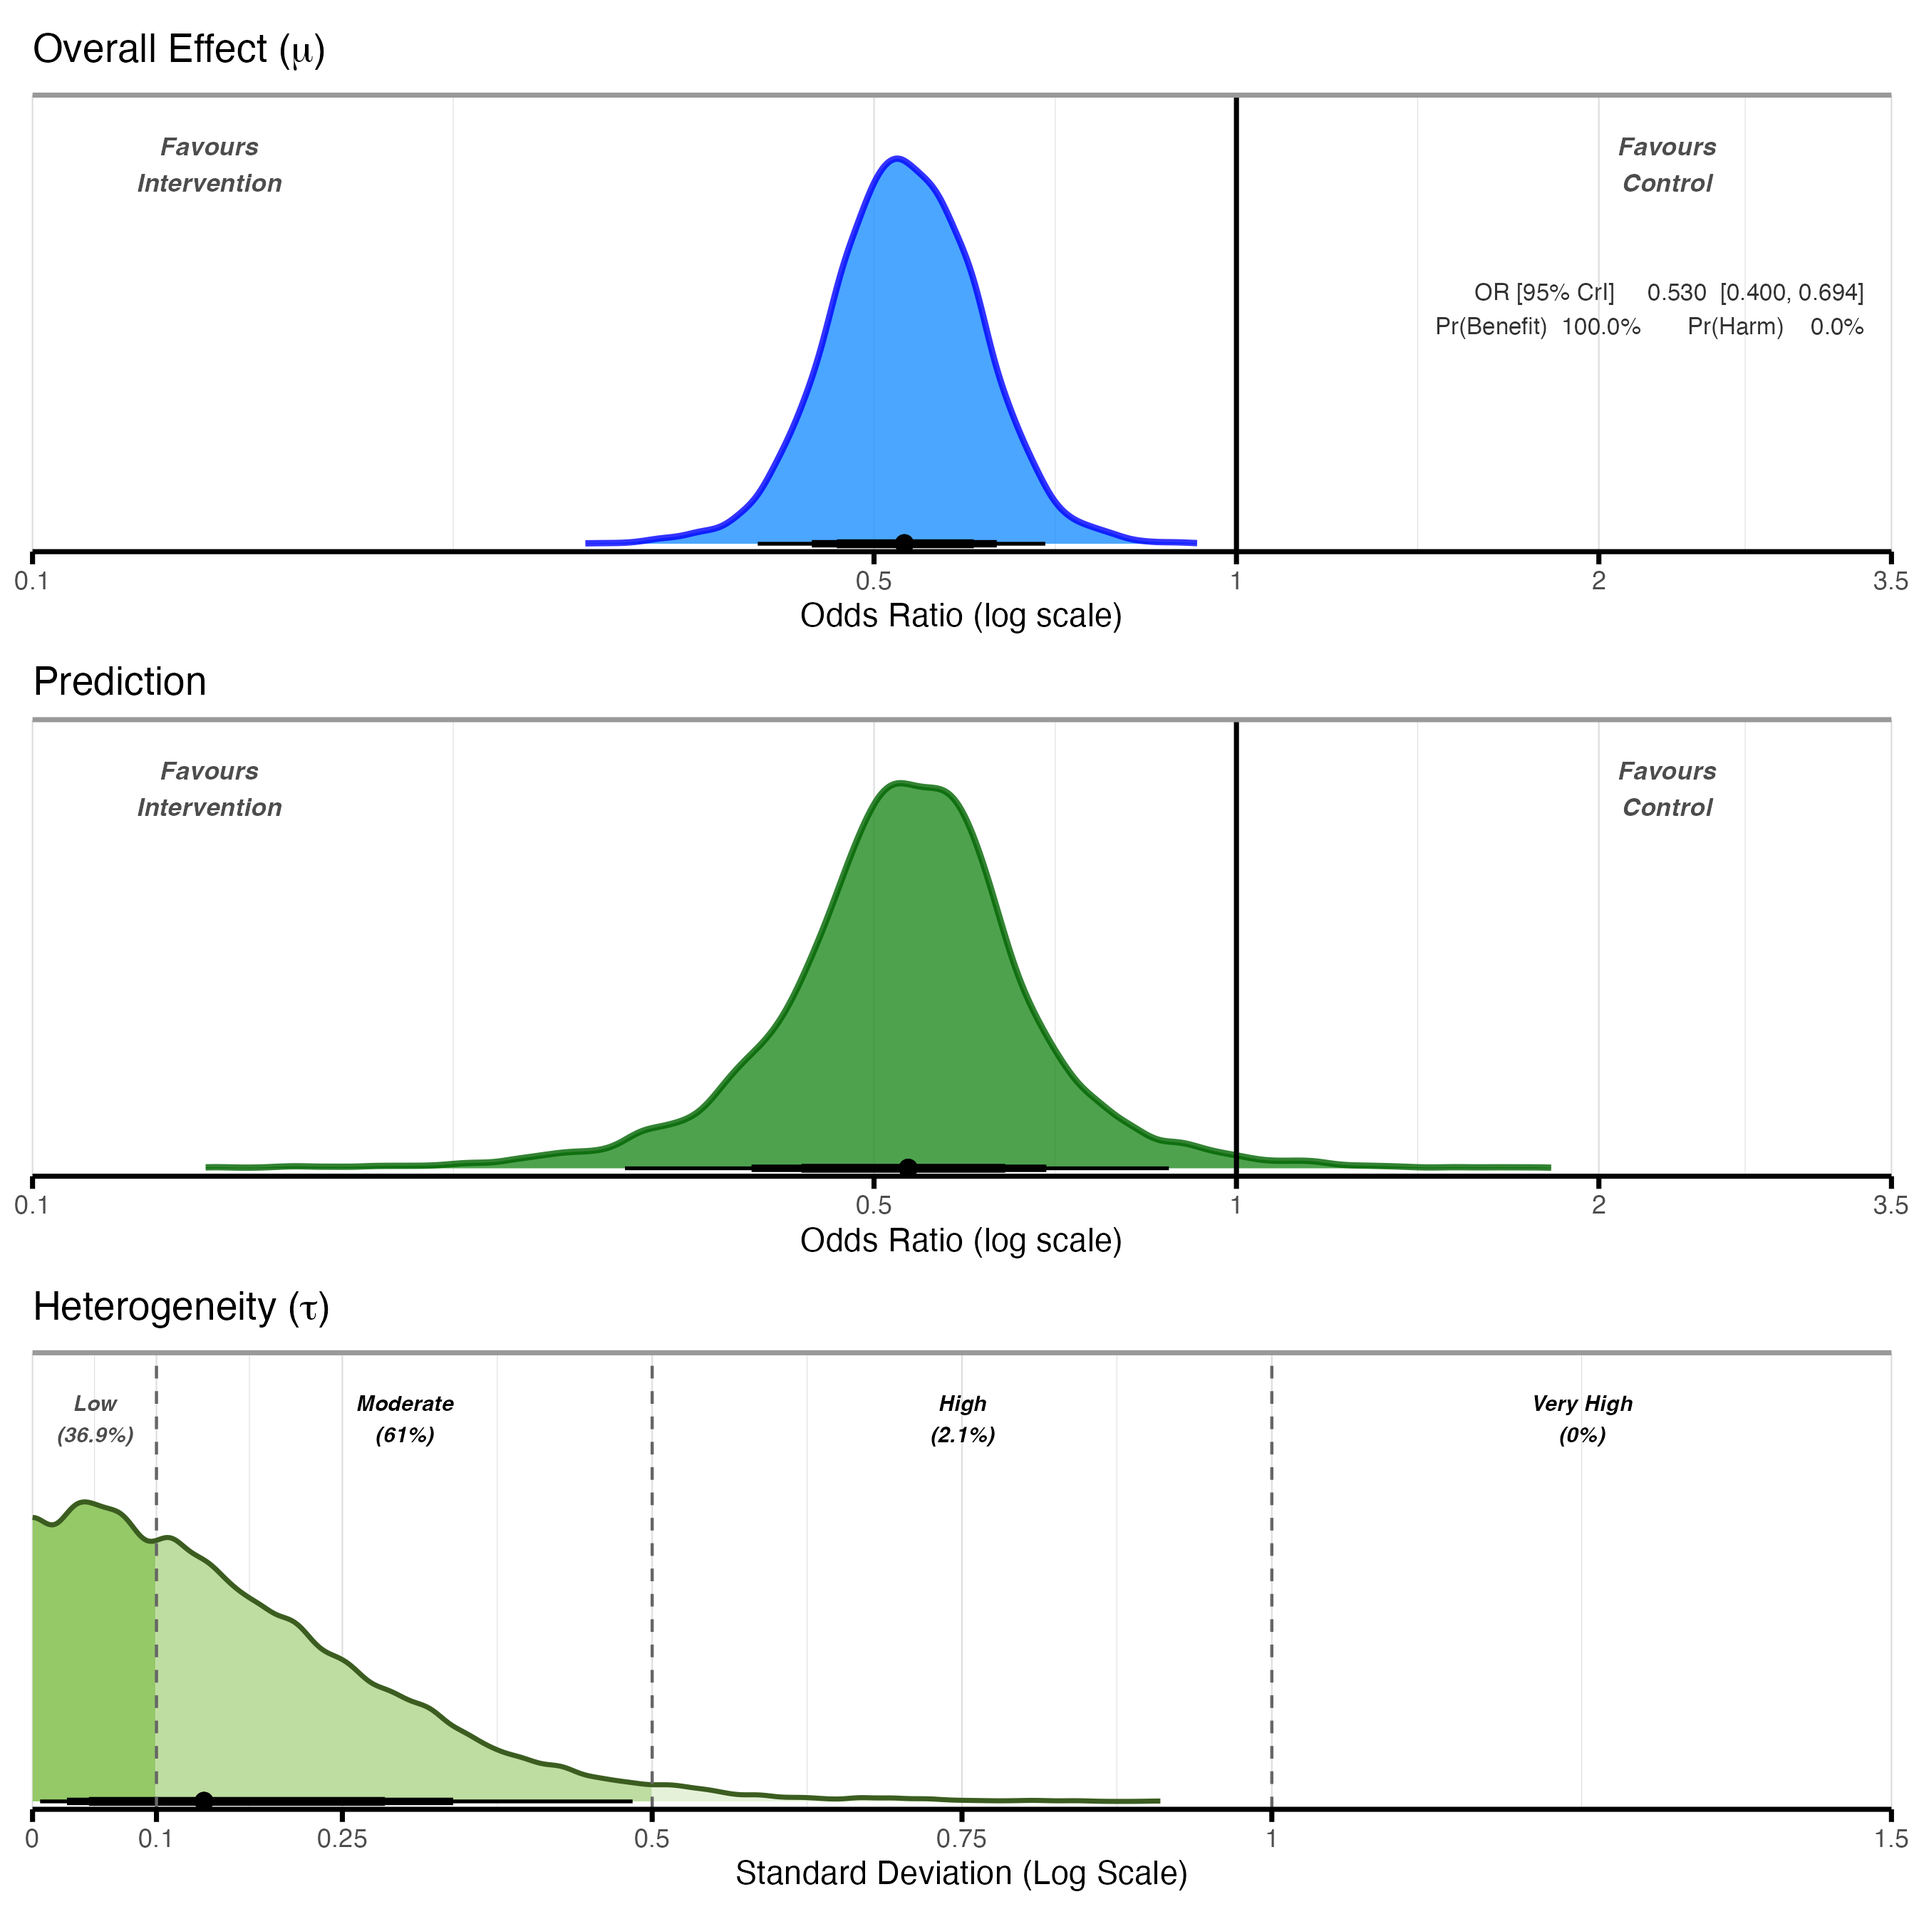
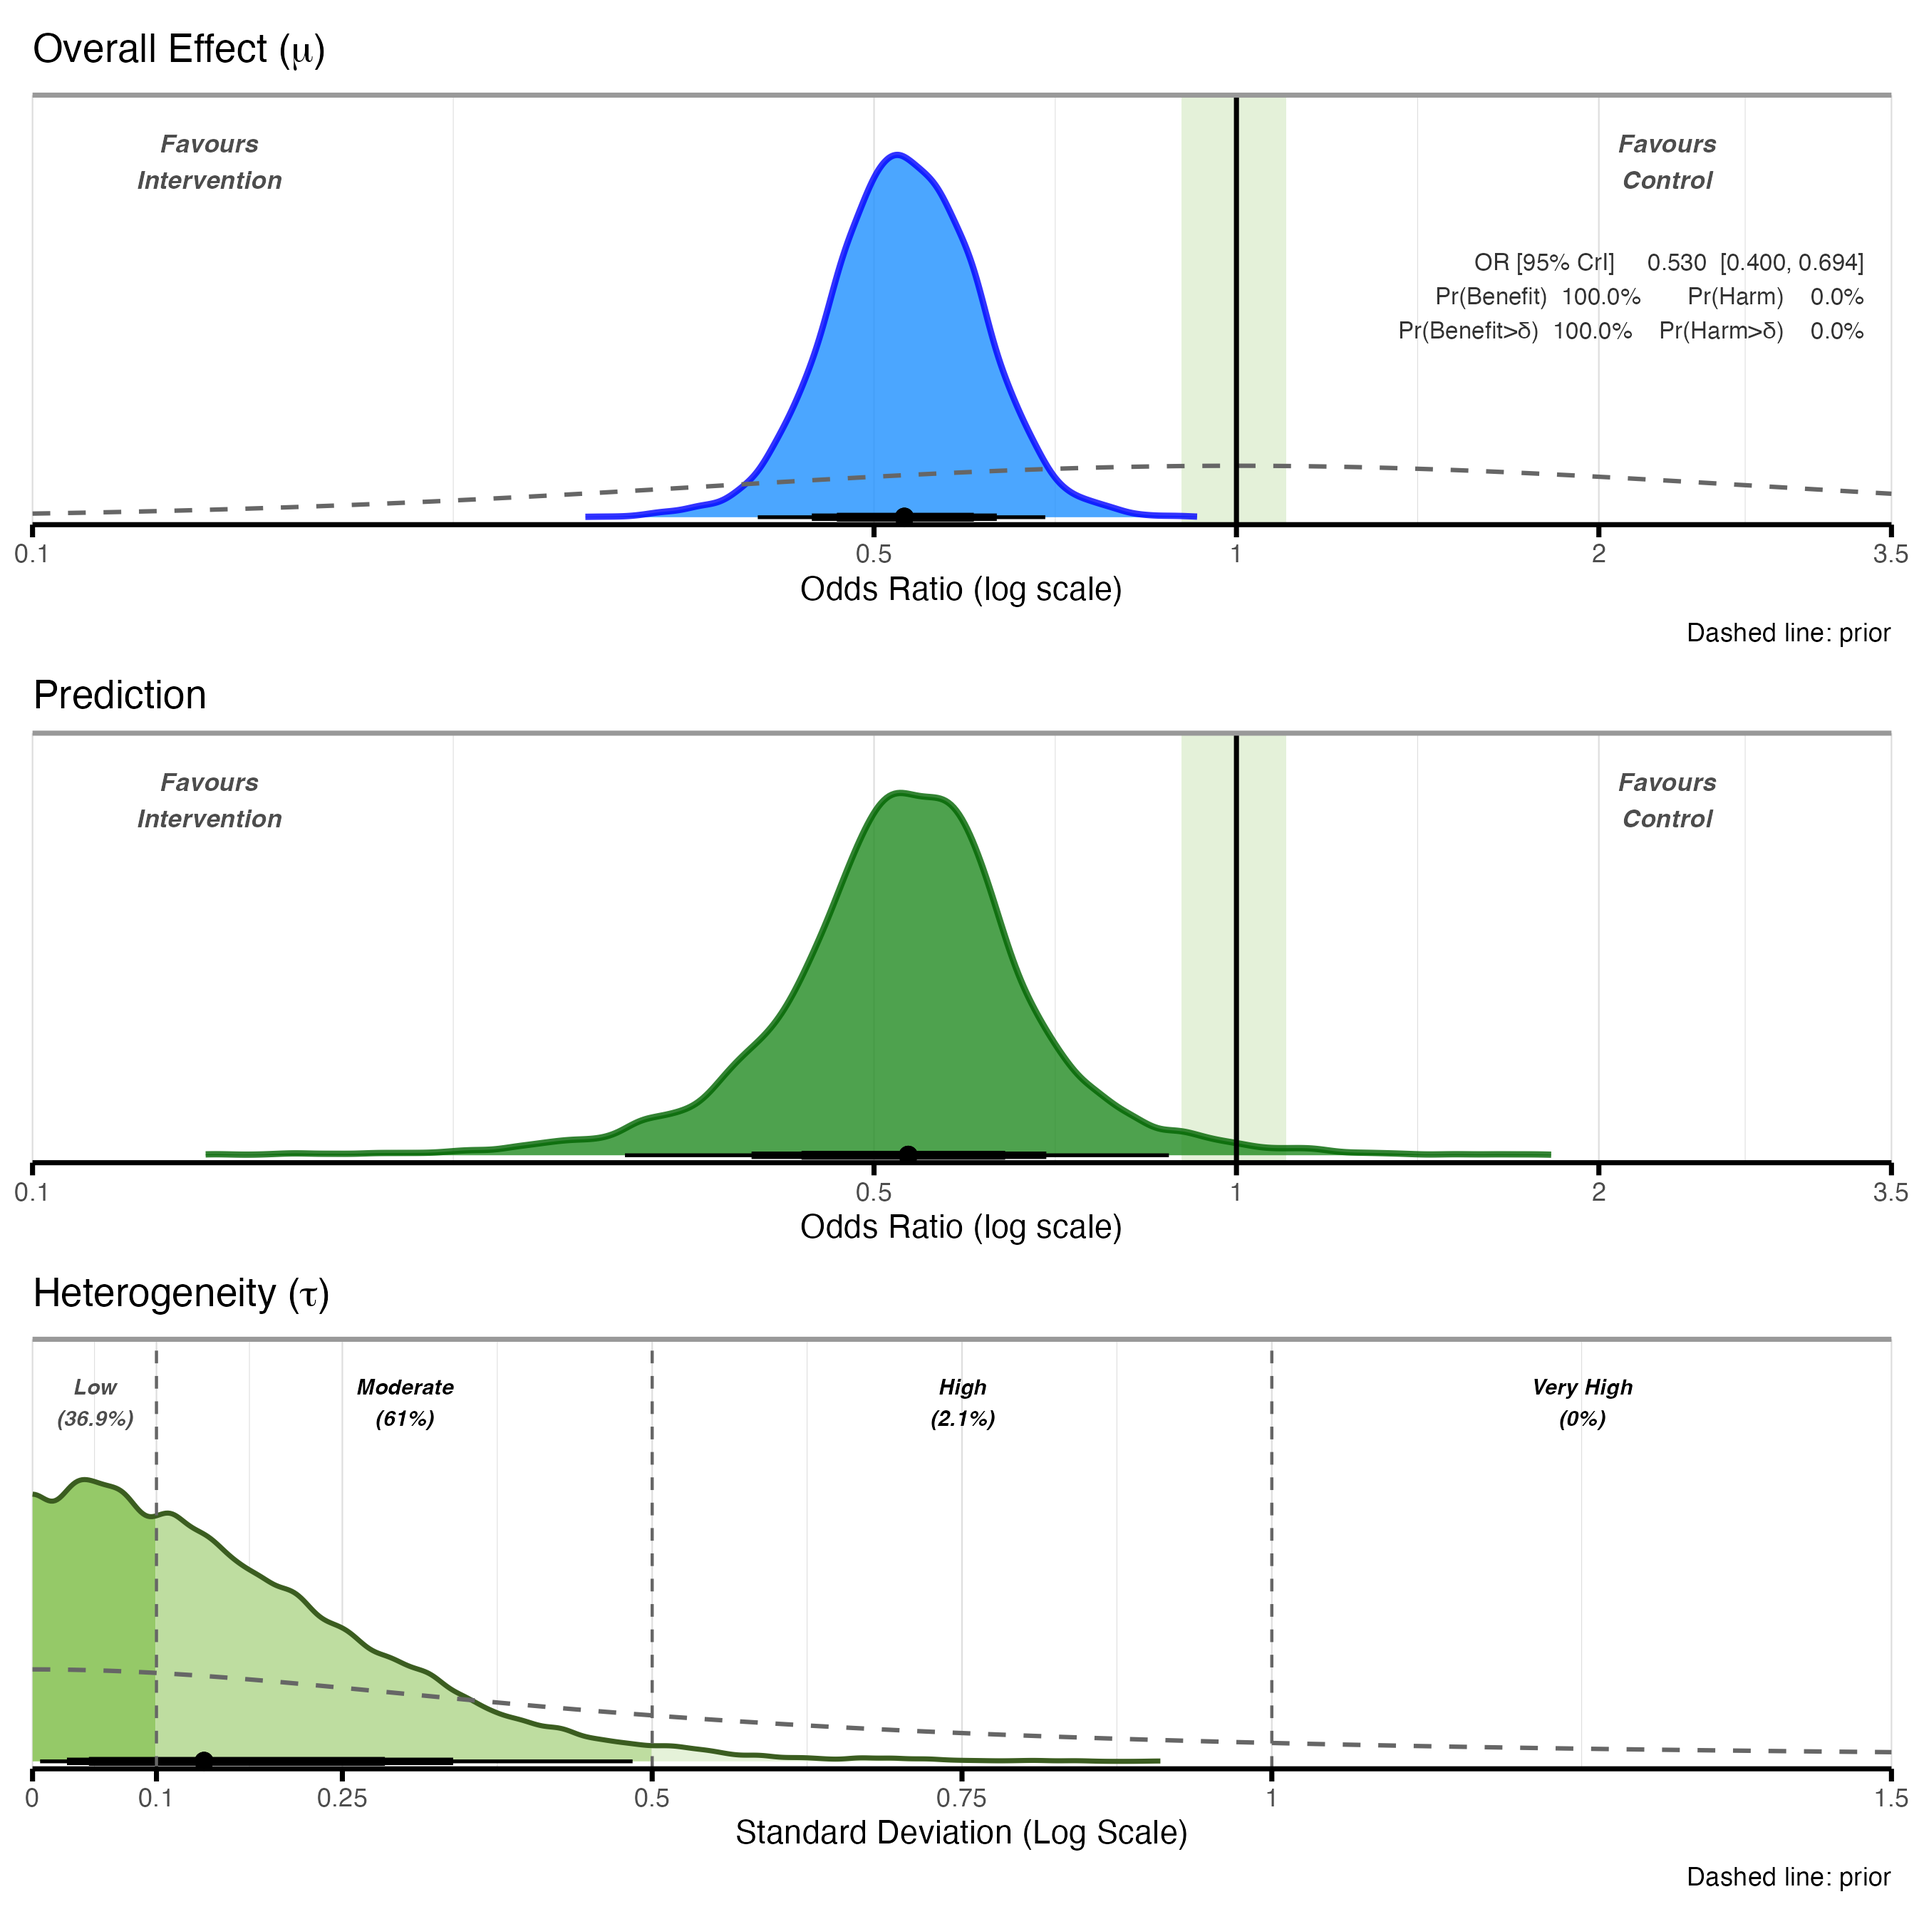
Add prior overlays and a default null range to overall_plot()
add_null_range = TRUE now shades 0.9 to 1.1 (ratio measures) or -0.1 to
0.1 (SMD) when null_range is not given, matching sensitivity_plot() and
the ECDF plots. A single null_range value is taken as a half-width.

New incl_mu_prior and incl_tau_prior draw the priors as dashed lines on
the same density scale as the posteriors. Priors are read from brms and
bayesmeta models, or supplied as bf_prior objects with mu_prior and
tau_prior for any backend.

diff --git a/README.md b/README.md
@@ -268,6 +268,9 @@ overall_plot(
   measure = "OR",
   add_tau = TRUE,
   add_pred = TRUE,
+  incl_mu_prior = TRUE,
+  incl_tau_prior = TRUE,
+  add_null_range = TRUE,
   mu_xlim = c(0.1, 3.5),
   tau_xlim = c(0, 1.5),
   plot_arrangement = "vertical"
@@ -275,6 +278,13 @@ overall_plot(
 ```
 
 ![](man/figures/overall_plot.png)
+
+The dashed lines are the priors, drawn on the same density scale as the
+posteriors. They are read from brms and bayesmeta models; for other
+backends, pass them with `mu_prior` and `tau_prior`
+(e.g. `mu_prior = bf_normal(0, 1)`). With `add_null_range = TRUE` the
+shaded region defaults to an odds ratio of 0.9 to 1.1; set your own with
+`null_range`.
 
 ### Funnel Plot
 
